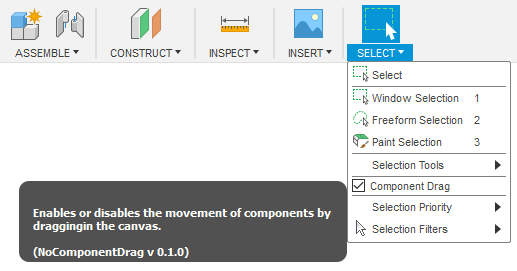
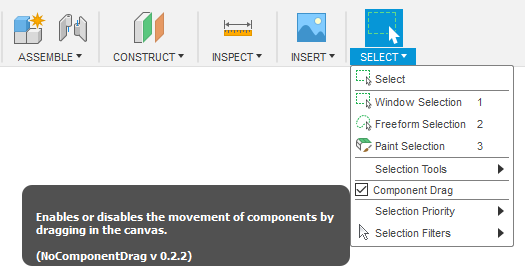
Fix spelling in tooltip

diff --git a/NoComponentDrag.py b/NoComponentDrag.py
@@ -107,7 +107,7 @@ def run(context):
         # Use a Command to get a transaction when renaming
         enable_cmd_def_ = ui_.commandDefinitions.addCheckBoxDefinition(ENABLE_CMD_ID,
                                                                  f'Component Drag',
-                                                                 'Enables or disables the movement of components by dragging'
+                                                                 'Enables or disables the movement of components by dragging '
                                                                   'in the canvas.\n\n'
                                                                   f'({NAME} v {manifest_["version"]})',
                                                                   settings_['drag_enabled'])

diff --git a/README.md b/README.md
@@ -47,6 +47,8 @@ This project is licensed under the terms of the MIT license. See [LICENSE](LICEN
 
 ## Changelog
 
+* v 0.2.2
+  * Fix spelling mistake
 * v 0.2.1
   * Run on start-up by default
 * v 0.2.0
